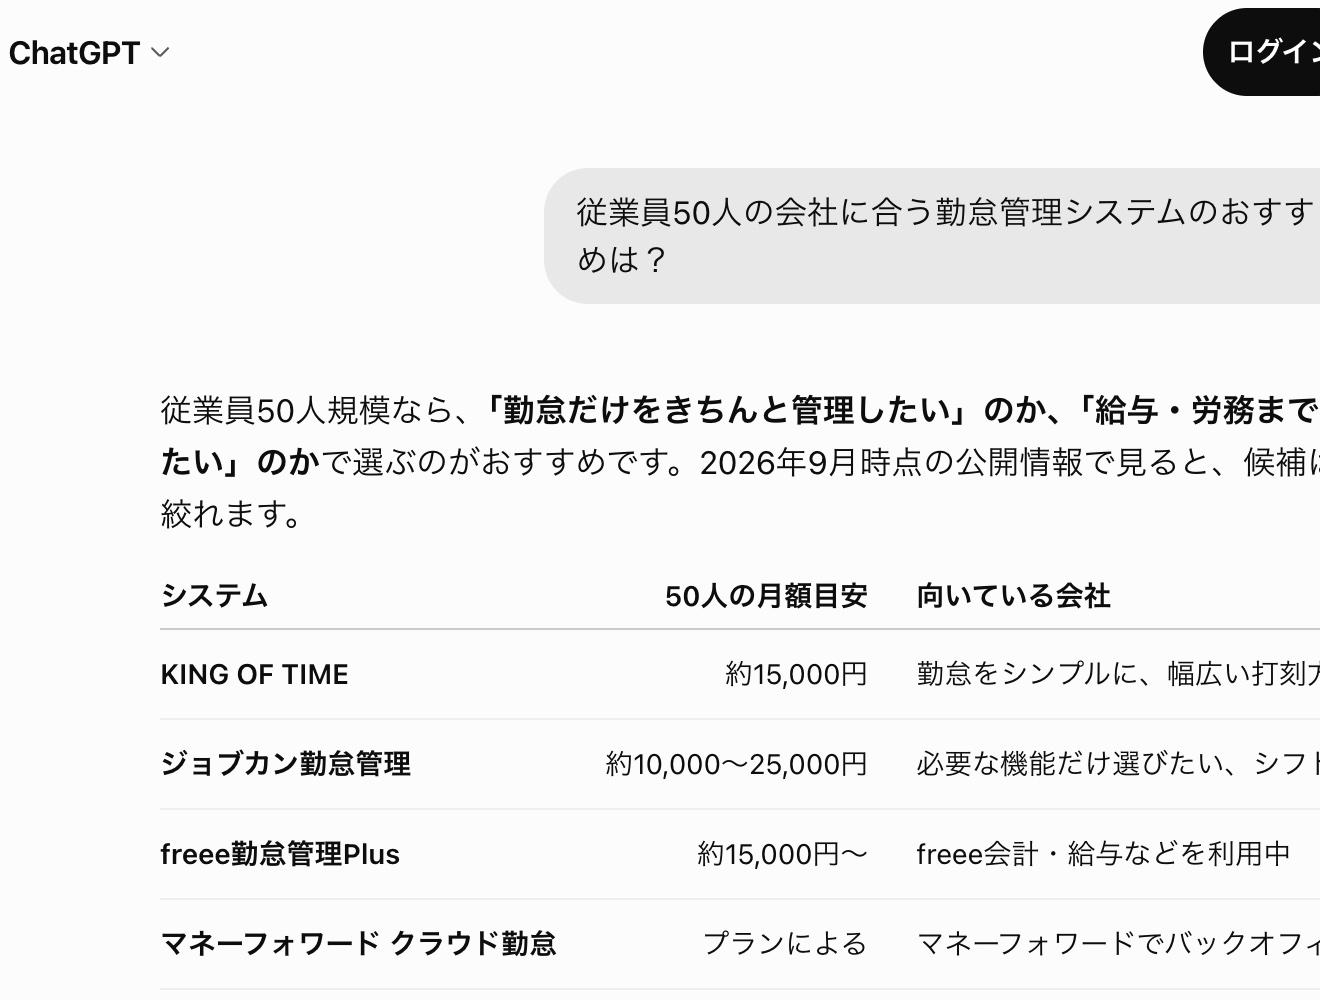
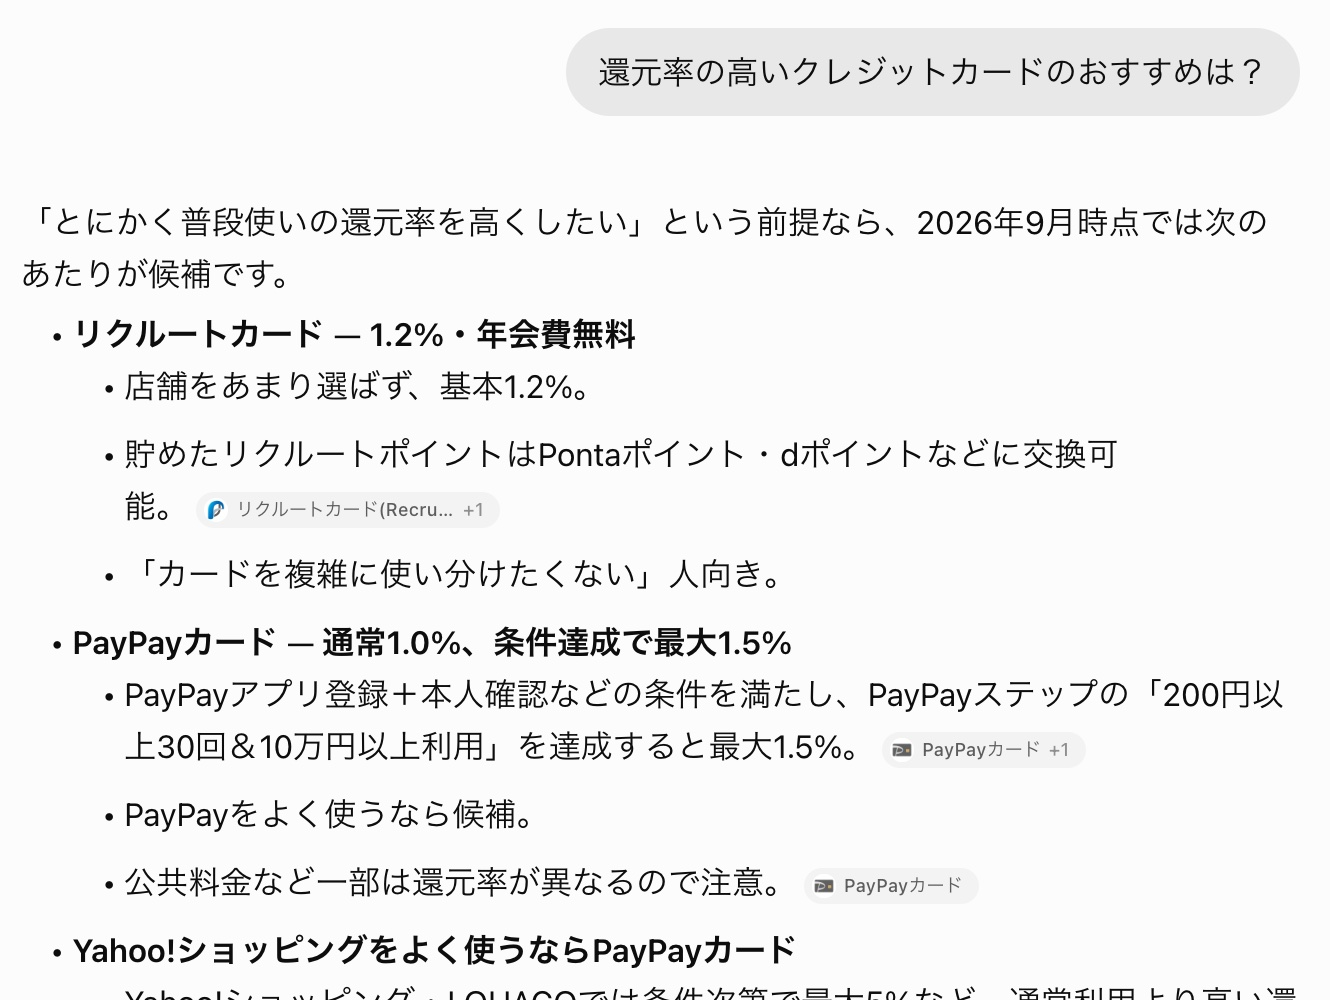
llmo: ChatGPTの実画面をクレジットカードの質問で撮り直し、添削6周目の文を反映

diff --git a/llmo/index.html b/llmo/index.html
@@ -1752,7 +1752,7 @@
                     <p class="mech-cap">理由を言える会社が答えに残る</p>
                 </div>
             </div>
-            <p class="mech-conclusion">名前が挙がるかは、<em>調べた先の自社のページに理由として使える情報があるか</em>で決まります。</p>
+            <p class="mech-conclusion">名前が挙がるかを決めるのは、<em>調べた先の自社のページに理由として使える情報があるか</em>どうかです。</p>
         </div>
     </section>
 
@@ -1766,18 +1766,18 @@
             <div class="vs">
                 <div class="vs-col">
                     <p class="vs-kind">APIで取得する計測</p>
-                    <p class="vs-sub">APIはプログラムからAIに質問する開発者向けの窓口</p>
+                    <p class="vs-sub">APIはプログラムからAIに質問するための開発者向けの窓口</p>
                     <div class="vs-visual"><div class="mock-term api-term">
                         <div class="head">プログラムからの質問と返答（イメージ）</div>
                         <div><span class="t">POST</span> /v1/responses</div>
-                        <div>{ "input": "従業員50人の会社に合う勤怠管理システムのおすすめは？" }</div>
+                        <div>{ "input": "還元率の高いクレジットカードのおすすめは？" }</div>
                         <div>&nbsp;</div>
                         <div><span class="ok">200 OK</span></div>
                         <div>{ "output_text": "候補は次のとおりです…",</div>
                         <div>&nbsp;&nbsp;"sources": [ "site-a.example", "site-b.example" ] }</div>
                     </div></div>
                     <ul class="vs-list">
-                        <li>開発者向けの窓口から質問する</li>
+                        <li>画面を通さずプログラムから質問する</li>
                         <li>出典に出るサイトが画面とほとんど重ならない</li>
                         <li>利用者が見ている答えとずれることがある</li>
                     </ul>
@@ -1785,8 +1785,8 @@
                 </div>
                 <div class="vs-col on">
                     <p class="vs-kind">nitoの計測</p>
-                    <p class="vs-sub">利用者が見るChatGPTなどの画面そのもの</p>
-                    <div class="vs-visual"><img src="/llmo/img/chatgpt-answer.jpg" alt="ChatGPTの実際の回答画面。勤怠管理システムのおすすめを表で答えている" width="1320" height="1000"></div>
+                    <p class="vs-sub">ChatGPTの実際の回答画面</p>
+                    <div class="vs-visual"><img src="/llmo/img/chatgpt-answer.jpg" alt="ChatGPTの実際の回答画面。還元率の高いクレジットカードのおすすめを答えている" width="1330" height="1000"></div>
                     <ul class="vs-list">
                         <li>人が使うチャット画面に毎日質問する</li>
                         <li>画面に出た回答と出典をそのまま記録する</li>
@@ -1797,7 +1797,7 @@
             <div class="board-row">
                 <div class="board-text">
                     <p class="board-kind">毎日集計してボードに</p>
-                    <p>記録した回答と出典は毎日集計し、お客さまもボードで同じ数字を見られる作りです。</p>
+                    <p>記録した回答と出典は毎日集計し、お客さまもボードで確認できます。</p>
                 </div>
                 <figure class="measure-shot">
                     <img src="/llmo/img/board-demo.jpg" alt="AI検索ボードの画面。言及率・平均順位・Top3率などを毎日表示する" width="1280" height="800">
